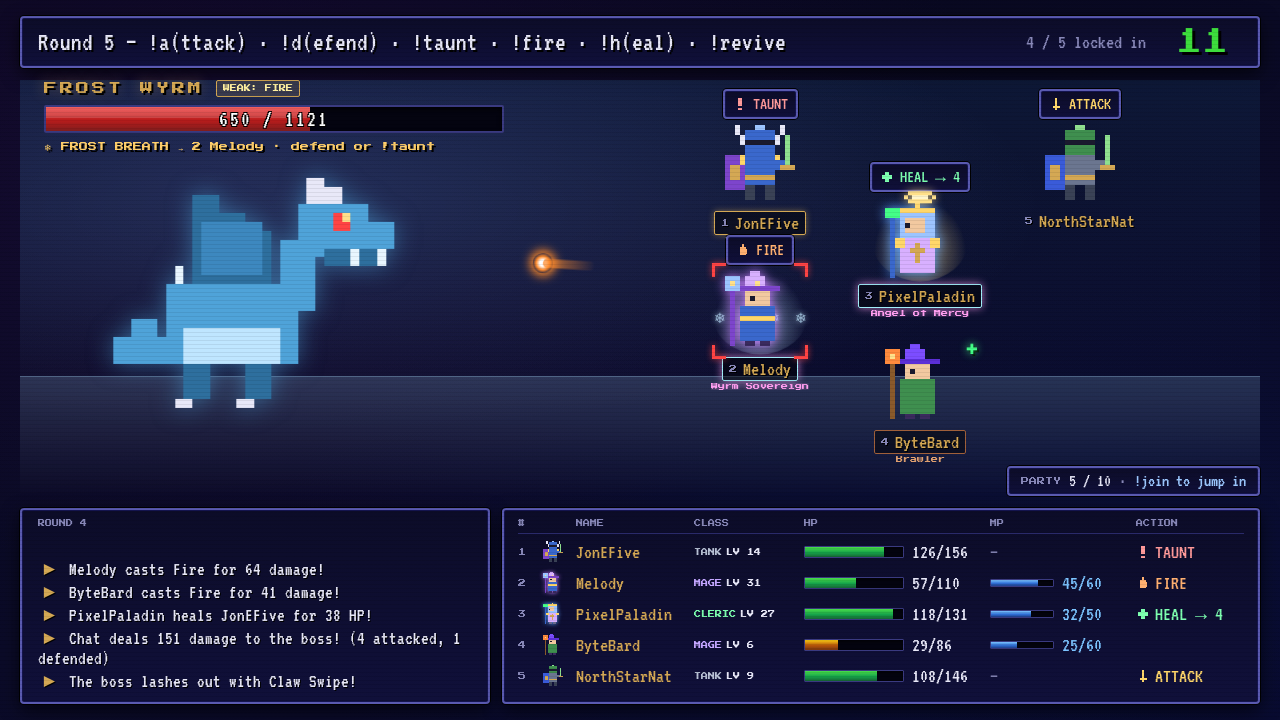
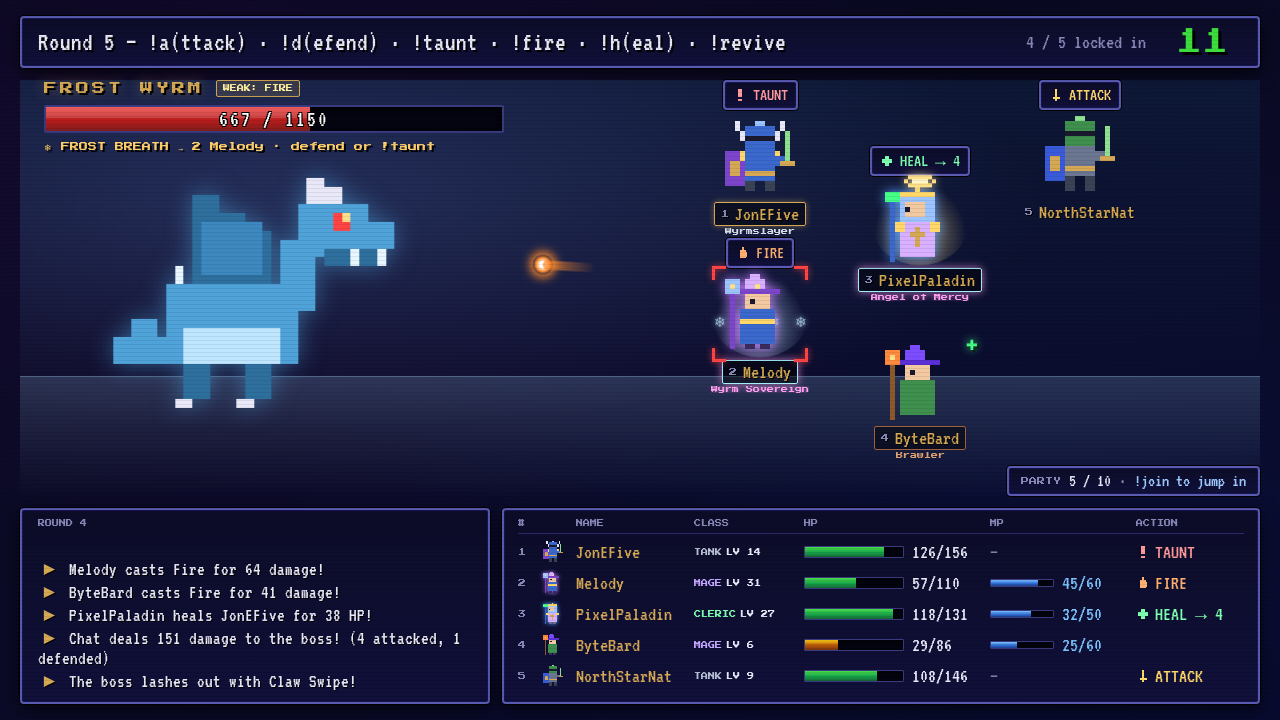
Fix battlefield titles hidden under the next unit's action bubble
In the large formation (5 or fewer players) rows were 146px apart, but a
unit with a title and name-plate frame is 155px tall, so its title ran
under the action bubble of the unit below (2-5 players), and 4-5 player
parties pushed the bottom unit 1px off the battlefield. Rows now step
158px, and the alternate-column stagger shrinks as needed to keep the
formation on the field. Checked 1-10 players: no overlaps.

README battle screenshots retaken with the fix.

diff --git a/public/overlay.js b/public/overlay.js
@@ -600,7 +600,10 @@ function formation(count) {
   const large = count <= COMPACT_PARTY_SIZE;
   const spriteSize = large ? 80 : 56;
   const unitW = large ? 140 : 116;
-  const unitH = large ? 146 : 108;
+  // Row step = a unit's full height, so a title never runs into the action bubble of
+  // the unit below. Measured: large 155px (bubble, sprite, framed name, title; small
+  // units have no title) and small 106px; a few px spare.
+  const unitH = large ? 158 : 108;
   if (count === 0) return { large, spriteSize, unitW, positions: [] };
 
   const rows = Math.min(count, large ? 2 : 3);
@@ -608,7 +611,9 @@ function formation(count) {
   const fieldW = partyFieldEl.clientWidth;
   const fieldH = partyFieldEl.clientHeight;
   const colStep = cols > 1 ? Math.min(large ? 160 : 130, (fieldW - unitW) / (cols - 1)) : 0;
-  const stagger = cols > 1 ? unitH / 2 : 0;
+  // Every other column drops by half a row, or less if that would run off the field
+  // (columns sit side by side, so a smaller stagger can't make units overlap).
+  const stagger = cols > 1 ? Math.max(0, Math.min(unitH / 2, fieldH - rows * unitH)) : 0;
   const left0 = Math.max(0, (fieldW - ((cols - 1) * colStep + unitW)) / 2);
   const top0 = Math.max(0, (fieldH - (rows * unitH + stagger)) / 2);
 
